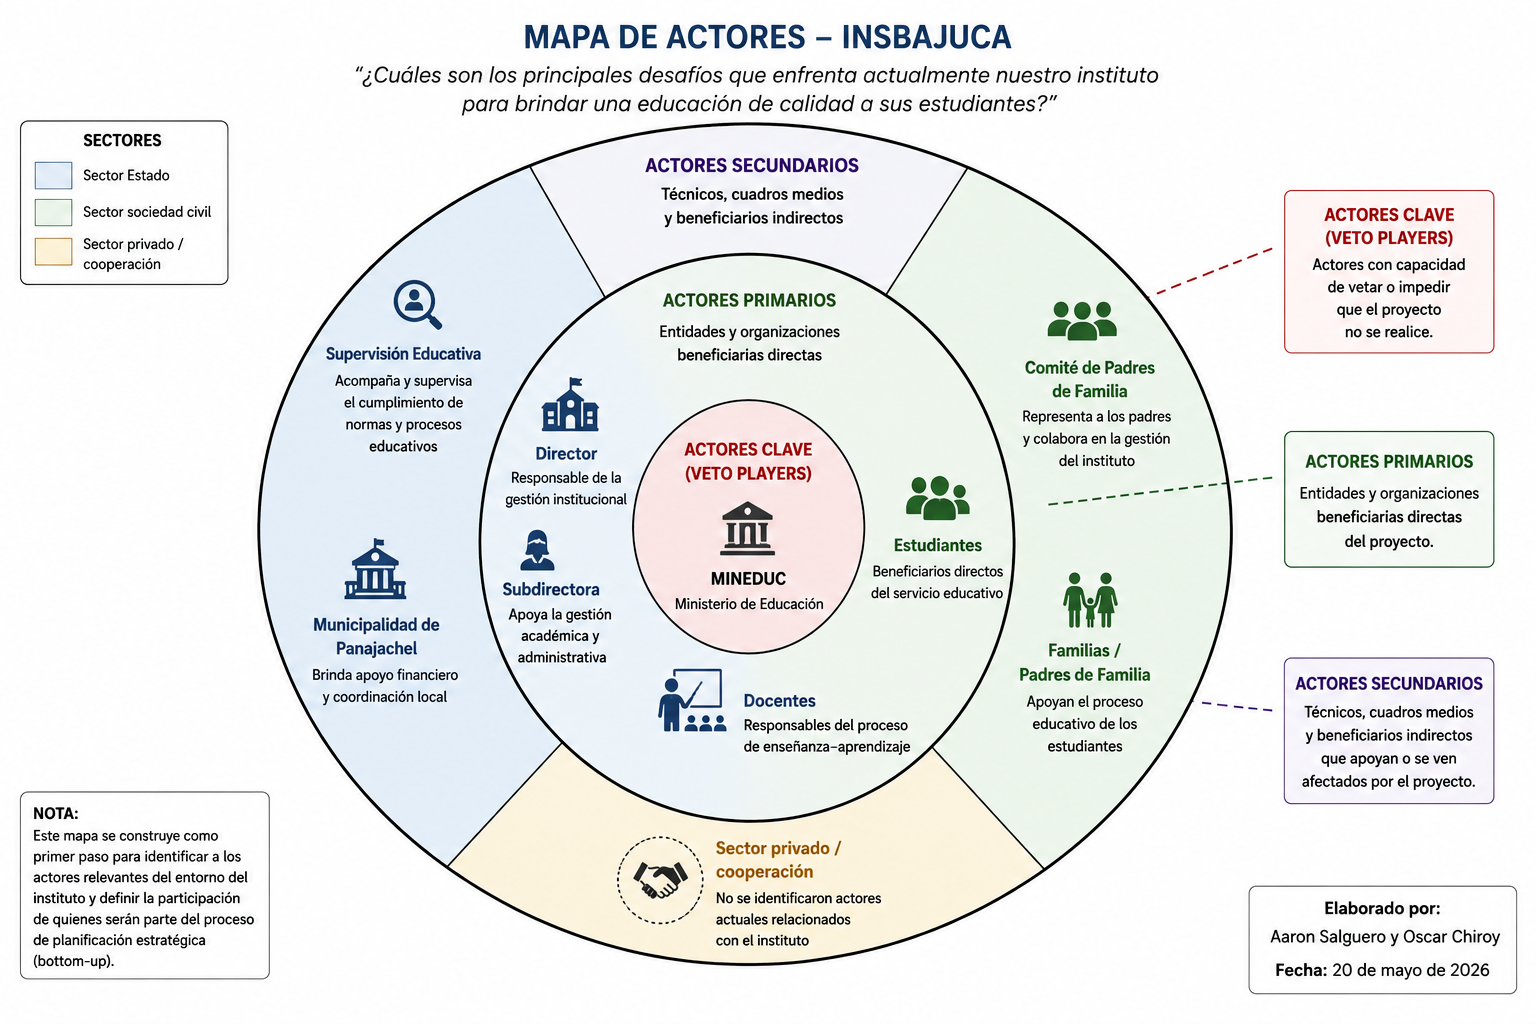
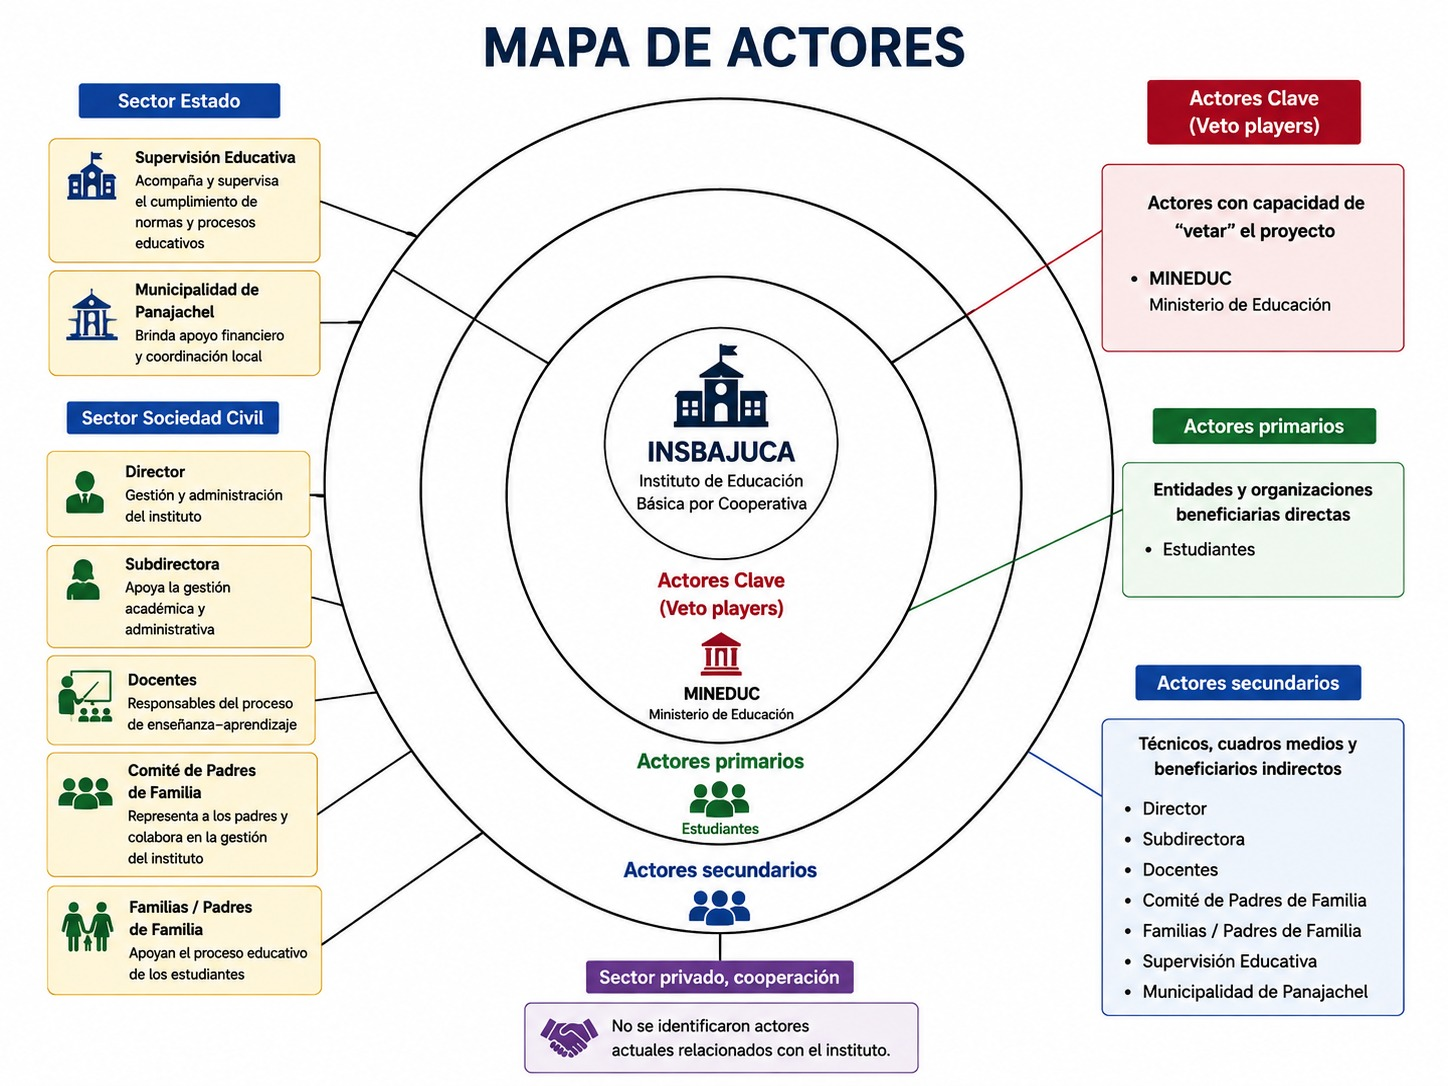
feat: Se agrega el desarrollo por aparte y también la hoja de estilos

diff --git a/desarrollo.html b/desarrollo.html
@@ -1,0 +1,82 @@
+<!DOCTYPE html>
+<html lang="en">
+<head>
+    <meta charset="UTF-8">
+    <meta name="viewport" content="width=device-width, initial-scale=1.0">
+    <title>Desarrollo</title>
+    <link rel="stylesheet" href="estilo.css">
+    <link rel="stylesheet" href="estiloBlog.css">
+</head>
+<body>
+     <header>
+        <div class="contenedorHeader">  
+            <div class="logo">
+                <div class="logo-texto">
+                    <img src="media/logoSitioGestion.png" alt="Logo del sitio" width="500">
+                </div>
+            </div>
+            <nav class="navbar">
+                <ul>
+                    <li><a href="index.html#metodologia">Metodología</a></li>
+                    <li><a href="desarrollo.html#desarrollo">Desarrollo</a></li>
+                    <li><a href="index.html#autores">Autores</a></li>
+                </ul>
+            </nav>
+        </div>
+    </header>
+     <article class="desarrollo">
+        <article class="entradas">    
+            <header>
+                <h3>03 de agosto - Planificación Inicial</h3>
+            </header>
+            <p>Realizamos nuestra primera reunión de trabajo para definir el contexto en el que desarrollaríamos el proceso de planificación estratégica bottom-up. Considerando nuestra experiencia como docentes, la relación previa con el establecimiento y la cercanía con nuestra comunidad, decidimos trabajar con INSBAJUCA.</p>
+            <details>
+                <summary>Más información</summary>
+                <p>En esta reunión, se discutieron los objetivos del proyecto y se establecieron las metas a alcanzar.</p>
+            <p>Como parte de esta primera etapa, elaboramos el mapa de actores para identificar a las personas e instituciones vinculadas con el establecimiento y orientar posteriormente la selección de los participantes. Además, debido a que el producto final del proyecto será presentado mediante un sitio web, desarrollamos un wireframe inicial para establecer la organización de sus principales secciones: Metodología, Desarrollo y Autores.</p>
+            <figure>
+                <img src="media/mapaActores.png" alt="Mapa de Actores" width="600" height="400">
+                <figcaption>Mapa de Actores</figcaption>
+            </figure>
+            <h4>Wireframe</h4>
+            <p>El wireframe es una representación visual de la estructura y el diseño del sitio web, que nos permite planificar la distribución de los elementos y la navegación entre las diferentes secciones.</p>
+            <figure>
+                <img src="media/wireFrame.jpg" alt="Wireframe" width="600" height="400">
+                <figcaption>Wireframe</figcaption>
+            </figure>
+            </details>
+        </article>
+        <article class="entradas">
+            <header >
+                <h3>06 de agosto - Acercamiento INSBAJUCA</h3>
+            </header>
+            <p>Realizamos el primer acercamiento con INSBAJUCA para presentar la propuesta de desarrollar el ejercicio de planificación estratégica bottom-up con integrantes de su comunidad educativa.z</p>
+
+            <p>Como resultado de este acercamiento, se acordó realizar la actividad el lunes 10 de agosto a las 4:00 p. m., utilizando un espacio dentro del establecimiento y contando con la participación de catedráticos y autoridades de INSBAJUCA.</p>
+        </article>
+        <article class="entradas">
+            <header>
+                <h3>07 de agosto - Construcción inicial del sitio web</h3>
+            </header>
+            <p>Iniciamos la construcción del sitio web que utilizaremos para documentar y presentar el desarrollo del proyecto. Tomando como referencia el wireframe elaborado previamente, establecimos la estructura inicial de la página e incorporamos el contenido desarrollado hasta el momento.</p>
+            <p>En esta etapa nos concentramos en organizar la información y establecer la estructura general del sitio. El diseño visual será trabajado posteriormente.</p>
+        </article>
+        <article class="entradas">
+            <header>
+                <h3>08 de agosto - Ejercicio de planificación estratégica</h3>
+            </header>
+            <p>Para poder establecer una agenda antes del desarrollo del proyecto, nos reunimos los autores del proyecto para discutir las funciones que cada uno realizaría durante el desarrollo del mismo.</p>
+            <p>Adicionalmente, se definió el cronograma de actividades y se asignaron responsabilidades específicas a cada miembro del equipo.</p>
+        </article>
+        <article class="entradas">
+            <header>
+                <h3>09 de agosto - Diseño CSS para el sitio web</h3>
+            </header>
+            <p>Continuamos con el desarrollo del sitio web, enfocándonos en mejorar su organización y presentación visual mediante CSS. Como parte de este proceso, decidimos crear una página separada para documentar el desarrollo del proyecto en forma de bitácora, facilitando la organización de las actividades realizadas durante cada etapa.</p>
+            <p>También comenzamos a implementar la paleta de colores del sitio, tomando como referencia los colores del logotipo, y realizamos ajustes en la presentación de los diferentes elementos de la página. Aunque todavía quedan aspectos por organizar y mejorar, estos cambios representan un avance importante en la construcción del sitio web.</p>
+    </article>
+    <footer>
+        <p>&copy; 2023 Todos los derechos reservados.</p>
+    </footer>
+</body>
+</html>

diff --git a/index.html b/index.html
@@ -4,19 +4,20 @@
     <meta charset="UTF-8">
     <meta name="viewport" content="width=device-width, initial-scale=1.0">
     <title>Gestion de Proyectos - Marco Lógico</title>
+    <link rel="stylesheet" href="estilo.css">
 </head>
 <body>
     <header>
         <div class="contenedorHeader">  
             <div class="logo">
                 <div class="logo-texto">
-                    <p>Gestión de Proyectos</p>
+                    <img src="media/logoSitioGestion.png" alt="Logo del sitio" width="500">
                 </div>
             </div>
             <nav class="navbar">
                 <ul>
                     <li><a href="#metodologia">Metodología</a></li>
-                    <li><a href="#desarrollo">Desarrollo</a></li>
+                    <li><a href="desarrollo.html">Desarrollo</a></li>
                     <li><a href="#autores">Autores</a></li>
                 </ul>
             </nav>
@@ -29,7 +30,7 @@
             <h3>Gestión de Proyectos · Maestría en Consejería Comunitaria</h3>
             <h3>Universidad del Valle de Guatemala, Campus Altiplano</h3>
         </article>
-        <article class="metodologia">
+        <article class="metodologia" id="metodologia">
             <h2>Metodología</h2>
             <h3>Enfoque del Proyecto</h3>
             <p>El proyecto se desarrolla mediante un enfoque de planificación estratégica bottom-up, aplicado a una situación real y concreta del ámbito educativo. Este enfoque busca que la identificación de los principales desafíos no parta únicamente de una definición previa realizada por quienes coordinamos el ejercicio, sino de la participación de actores vinculados directamente con el contexto analizado.</p>
@@ -48,32 +49,14 @@
             <p>Las respuestas serán recopiladas mediante la metodología Metaplan. Cada participante expresará individualmente sus ideas utilizando tarjetas, colocando una idea por tarjeta, sin abreviaturas y sin condicionarse por las respuestas de los demás participantes. Estas indicaciones corresponden al procedimiento establecido para el ejercicio de planificación estratégica.</p>
             <p>Posteriormente, las aportaciones serán organizadas y analizadas para identificar los principales desafíos y avanzar en la construcción participativa de los componentes que servirán de base para el Marco Lógico.</p>
         </article>
-        <article class="desarrollo">
-            <h3>03 de agosto - Planificación Inicial</h3>
-            <p>Realizamos nuestra primera reunión de trabajo para definir el contexto en el que desarrollaríamos el proceso de planificación estratégica bottom-up. Considerando nuestra experiencia como docentes, la relación previa con el establecimiento y la cercanía con nuestra comunidad, decidimos trabajar con INSBAJUCA.</p>
-
-            <p>Como parte de esta primera etapa, elaboramos el mapa de actores para identificar a las personas e instituciones vinculadas con el establecimiento y orientar posteriormente la selección de los participantes. Además, debido a que el producto final del proyecto será presentado mediante un sitio web, desarrollamos un wireframe inicial para establecer la organización de sus principales secciones: Metodología, Desarrollo y Autores.</p>
-            <figure>
-                <img src="media/mapaActores.png" alt="Mapa de Actores" width="600" height="400">
-                <figcaption>Mapa de Actores</figcaption>
-            </figure>
-            <h4>Wireframe</h4>
-            <p>El wireframe es una representación visual de la estructura y el diseño del sitio web, que nos permite planificar la distribución de los elementos y la navegación entre las diferentes secciones.</p>
-            <figure>
-                <img src="media/wireFrame.jpg" alt="Wireframe" width="600" height="400">
-                <figcaption>Wireframe</figcaption>
-            </figure>
-            <h3>06 de agosto - Acercamiento INSBAJUCA</h3>
-            <p>Realizamos el primer acercamiento con INSBAJUCA para presentar la propuesta de desarrollar el ejercicio de planificación estratégica bottom-up con integrantes de su comunidad educativa.z</p>
-
-            <p>Como resultado de este acercamiento, se acordó realizar la actividad el lunes 10 de agosto a las 4:00 p. m., utilizando un espacio dentro del establecimiento y contando con la participación de catedráticos y autoridades de INSBAJUCA.</p>
-            <h3>07 de agosto - Construcción inicial del sitio web</h3>
-            <p>Iniciamos la construcción del sitio web que utilizaremos para documentar y presentar el desarrollo del proyecto. Tomando como referencia el wireframe elaborado previamente, establecimos la estructura inicial de la página e incorporamos el contenido desarrollado hasta el momento.</p>
-            <p>En esta etapa nos concentramos en organizar la información y establecer la estructura general del sitio. El diseño visual será trabajado posteriormente.</p>
-        </article>
-        <article class="autores">
+        <article class="autores" id="autores">
             <h2>Autores</h2>
+            <p>El proyecto es desarrollado por los estudiantes de la Maestría en Consejería Comunitaria de la Universidad del Valle de Guatemala, Campus Altiplano, como parte del curso de Gestión de Proyectos.</p>
+            <p>Los autores son:</p>
         </article>
     </main>
+    <footer>
+        <p>&copy; 2023 Todos los derechos reservados.</p>
+    </footer>
 </body>
 </html>

diff --git a/estilo.css b/estilo.css
@@ -1,0 +1,49 @@
+
+*{
+    box-sizing: border-box;
+
+}
+body{
+    margin: 0;
+    font-family: Arial, sans-serif;
+    background-color:#F4F6F8;
+}
+footer{
+    background-color: #003459;
+    color: #fff;
+    text-align: center;
+    padding: 10px 0;
+}
+main{
+    max-width: 1200px;
+    margin: 0 auto;
+}
+.contenedorHeader{
+    max-width: 100%;
+    display: flex;
+    justify-content: space-between;
+    align-items: center;
+    margin: 0 auto;
+    font-size: 15px;
+    background-color: #E6F4EC;
+}
+
+.navbar ul{
+    list-style: none;
+    display: flex;
+    margin: 0;
+    padding: 0;
+}
+.navbar li{
+    margin-right: 20px;
+}
+
+.navbar a{
+    text-decoration: none;
+    color: #004579;
+    font-weight: bold;
+}
+.navbar a:hover{
+    color: #009447;
+}
+ 

diff --git a/estiloBlog.css b/estiloBlog.css
@@ -1,0 +1,18 @@
+
+.entradas{
+    border: 1px solid #ccc;
+    margin: 0 auto;
+    background-color: #f9f9f9;
+    max-width: 50%;
+    display: flex;
+    flex-direction: column;
+    margin-bottom: 20px;
+    margin-top: 20px;
+}
+.entradas summary {
+    cursor: pointer;
+    background-color: #004579;
+    color: white;
+    padding: 10px 15px;
+    width: fit-content;
+}
